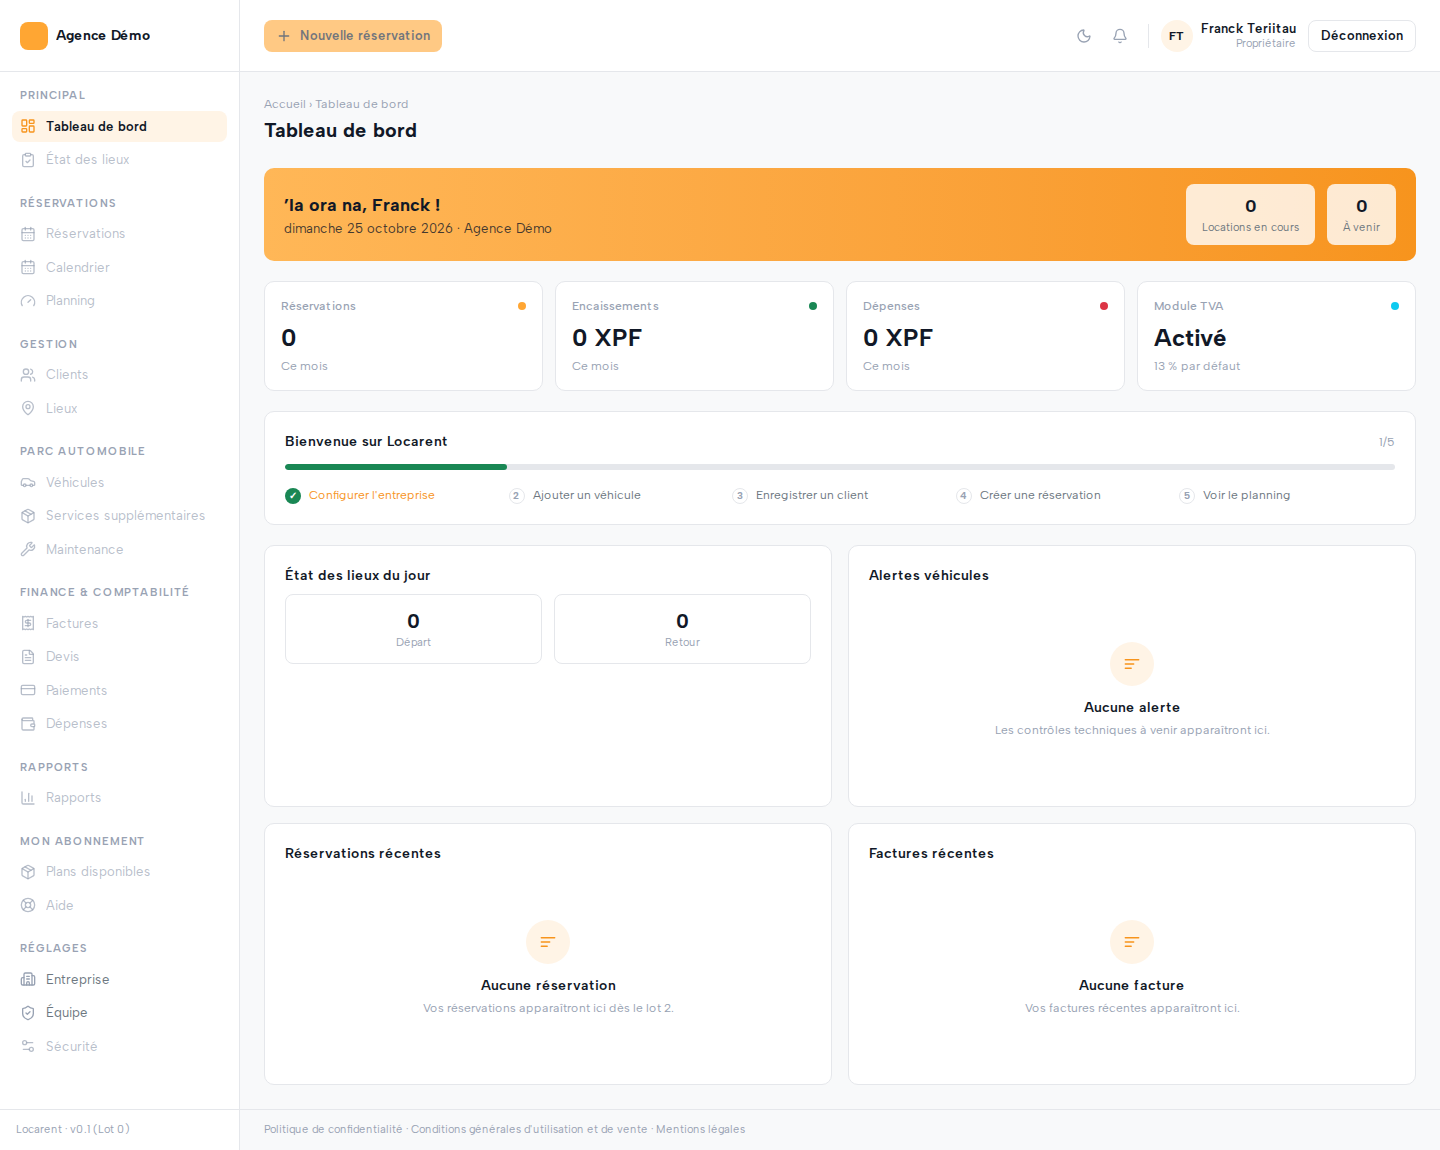
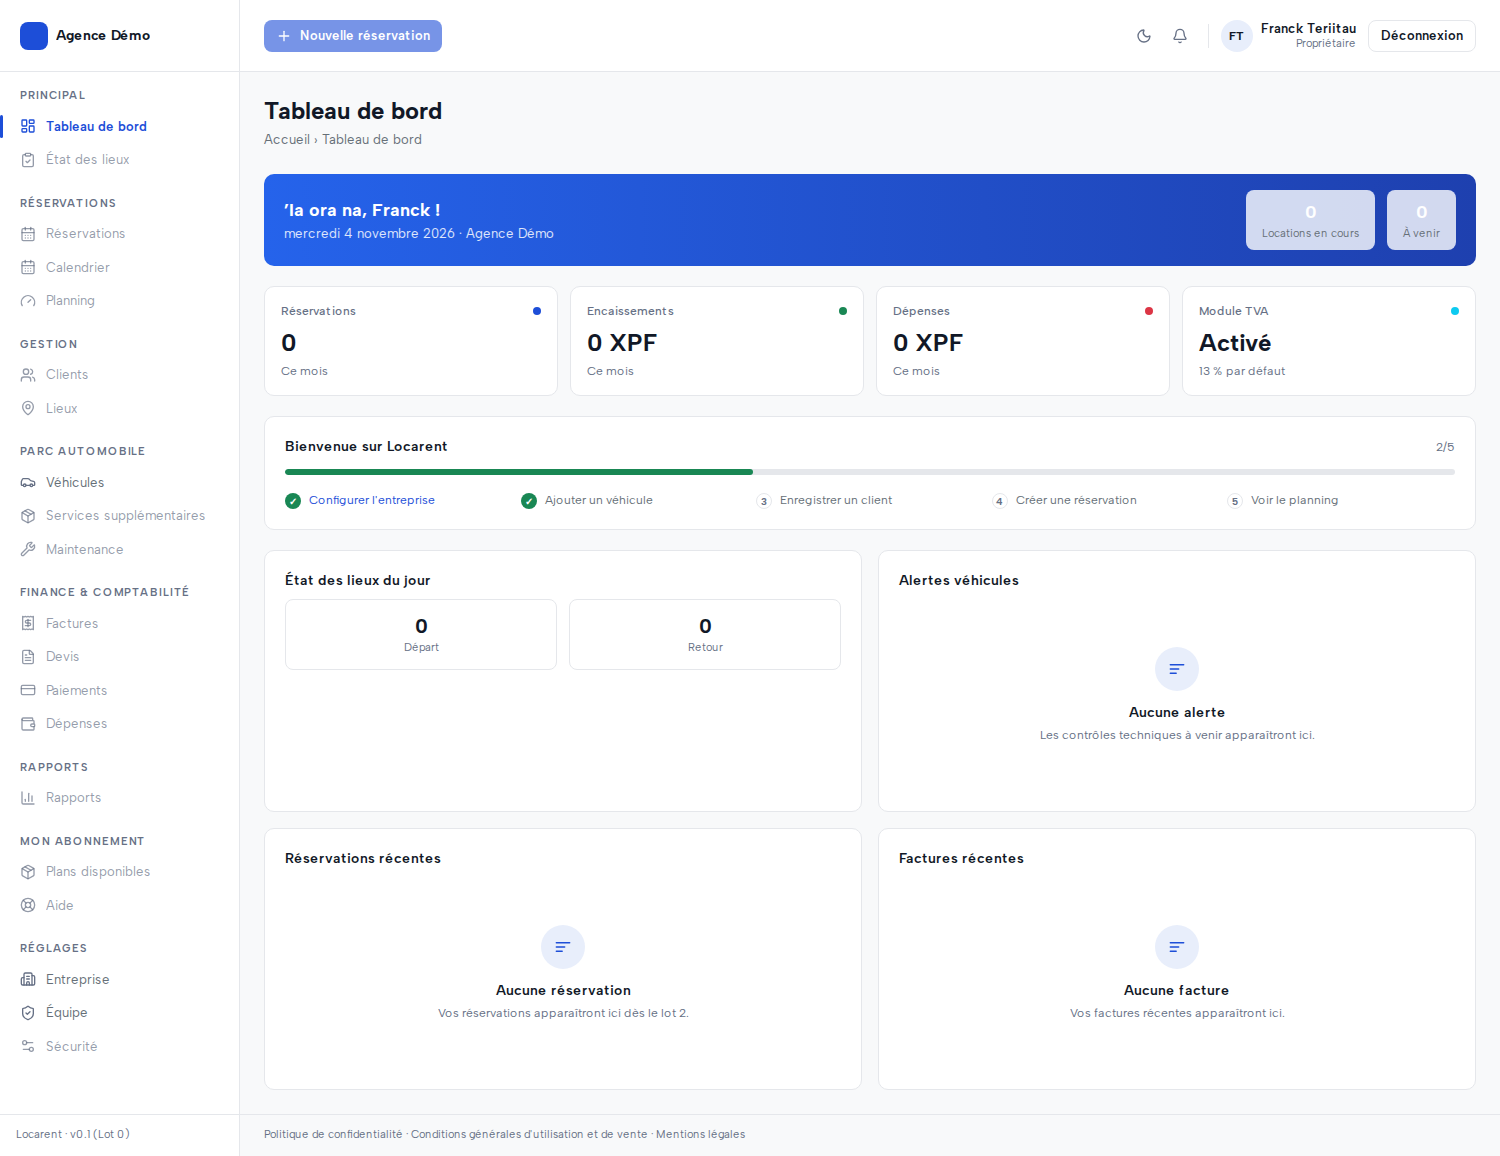
design : palette bleu océan à la place de l'orange
L'orange était hérité de FenuaCar ; le produit prend sa propre identité.

- primaire #1D4ED8 (6,7:1 avec du texte blanc), survol #1E40AF,
  fonds #E8EEFB ; liens en #1D4ED8 (6,15:1 sur fond crème) ;
- boutons et bandeau de bienvenue passent en texte blanc : sur un bleu
  profond, l'encre foncée ne tenait que 3,5:1 ;
- turquoises écartés après mesure : 1,2 de contraste avec le vert « succès »,
  donc indistinguables ; le vert, l'ambre et le rouge restent réservés aux
  statuts ;
- fond des écrans d'authentification refroidi (#F1F5FD) pour rester en
  harmonie.

Audit axe (WCAG AA) repassé sur les écrans publics et d'administration :
aucune violation sérieuse. Captures d'écran régénérées.

diff --git a/src/app/admin/index/page.tsx b/src/app/admin/index/page.tsx
@@ -44,22 +44,22 @@ export default async function DashboardPage() {
       />
 
       {/* Bandeau de bienvenue — orange en fond, texte foncé (contraste). */}
-      <section className="mb-5 flex flex-wrap items-center justify-between gap-4 rounded-card bg-gradient-to-r from-[#FFB757] to-brand-dark px-5 py-4">
+      <section className="mb-5 flex flex-wrap items-center justify-between gap-4 rounded-card bg-gradient-to-r from-[#2563EB] to-brand-dark px-5 py-4">
         <div>
-          <p className="text-lg font-bold text-ink">
+          <p className="text-lg font-bold text-white">
             ’Ia ora na, {firstName} !
           </p>
-          <p className="text-[13px] text-ink/80">
+          <p className="text-[13px] text-white/85">
             {formatLongDate(new Date())} · {session.tenant.name}
           </p>
         </div>
         <div className="flex gap-3 text-center">
           <div className="rounded-btn bg-surface/80 px-4 py-2">
-            <p className="text-lg font-bold text-ink">0</p>
+            <p className="text-lg font-bold text-white">0</p>
             <p className="text-[11px] text-body">Locations en cours</p>
           </div>
           <div className="rounded-btn bg-surface/80 px-4 py-2">
-            <p className="text-lg font-bold text-ink">0</p>
+            <p className="text-lg font-bold text-white">0</p>
             <p className="text-[11px] text-body">À venir</p>
           </div>
         </div>

diff --git a/src/app/globals.css b/src/app/globals.css
@@ -5,12 +5,12 @@
  * Tokens exposés comme utilitaires Tailwind 4 : bg-brand, text-ink, border-line…
  */
 @theme {
-  /* Marque */
-  --color-brand: #ffa633;
-  --color-brand-dark: #f7941d;
-  --color-brand-soft: #fff4e6;
-  /* Orange utilisable EN TEXTE : #f7941d ne donne que 2.3:1 sur blanc. */
-  --color-brand-text: #b45309;
+  /* Marque — bleu océan (Tahiti Keys).
+     Écarté : les turquoises, trop proches du vert « succès » (ratio 1,2). */
+  --color-brand: #1d4ed8;        /* surfaces, boutons — 6,7:1 avec texte blanc */
+  --color-brand-dark: #1e40af;   /* survol, dégradés */
+  --color-brand-soft: #e8eefb;   /* fonds de badge, surlignage */
+  --color-brand-text: #1d4ed8;   /* liens et accents — 6,7:1 sur blanc */
 
   /* Texte */
   --color-ink: #111827;
@@ -43,8 +43,8 @@
 }
 
 /* Contrastes (WCAG AA, 4.5:1 pour le texte courant) :
-   · #FFA633 et #F7941D ne servent JAMAIS de couleur de texte sur fond clair
-     (2.0 et 2.3:1) — en texte, utiliser --color-brand-text (#B45309, 5.0:1) ;
+   · --color-brand (#1D4ED8) tient 6,7:1 avec du texte blanc : il peut donc
+     servir de fond de bouton ET de couleur de texte ;
    · --color-body = 4.85:1 sur le fond gris de l'admin ;
    · --color-muted = 4.97:1.
    Ces valeurs sont vérifiées automatiquement par tests/e2e/accessibilite.spec.ts. */

diff --git a/src/components/admin/vehicle-form.tsx b/src/components/admin/vehicle-form.tsx
@@ -183,8 +183,8 @@ export function VehicleForm({
             ) : null}
 
             {/* Bandeau de section, comme sur la capture « Ajouter un véhicule ». */}
-            <div className="my-4 flex items-center gap-2 rounded-btn bg-[#EAF3F8] px-4 py-3">
-              <Info className="size-4 text-[#2C6C8F]" aria-hidden />
+            <div className="my-4 flex items-center gap-2 rounded-btn bg-[#EAF1FB] px-4 py-3">
+              <Info className="size-4 text-[#1E40AF]" aria-hidden />
               <span className="text-sm font-semibold text-ink">
                 {tab === "informations" ? "Informations de base" : "Tarification"}
               </span>
@@ -315,7 +315,7 @@ export function VehicleForm({
 
                 <label className="mt-4 flex items-center gap-2 text-[13px] text-ink">
                   <input type="checkbox" name="isUnlimitedKilometers" defaultChecked={values.isUnlimitedKilometers}
-                    className="size-4 accent-[#F7941D]" />
+                    className="size-4 accent-[#1D4ED8]" />
                   Kilométrage illimité
                 </label>
 

diff --git a/src/components/ui/button.tsx b/src/components/ui/button.tsx
@@ -5,7 +5,7 @@ import { cn } from "@/lib/cn";
 /**
  * Boutons du design system (spec/07-design-system.md).
  *
- * Le orange #FFA633 ne sert jamais de couleur de texte : soit fond avec texte
+ * Le orange #1D4ED8 ne sert jamais de couleur de texte : soit fond avec texte
  * foncé (primaire), soit bordure/accent avec texte foncé. Raison : contraste.
  */
 const buttonVariants = cva(
@@ -13,7 +13,7 @@ const buttonVariants = cva(
   {
     variants: {
       variant: {
-        primary: "bg-brand text-ink hover:bg-brand-dark",
+        primary: "bg-brand text-white hover:bg-brand-dark",
         secondary:
           "border border-line bg-surface text-ink hover:bg-app",
         ghost: "text-body hover:bg-app hover:text-ink",

diff --git a/src/components/admin/team-manager.tsx b/src/components/admin/team-manager.tsx
@@ -75,7 +75,7 @@ function PermissionPicker({
                   value={permission}
                   defaultChecked={selected.includes(permission)}
                   disabled={disabled}
-                  className="mt-0.5 size-3.5 accent-[#F7941D]"
+                  className="mt-0.5 size-3.5 accent-[#1D4ED8]"
                 />
                 {PERMISSION_LABELS[permission as Permission] ?? permission}
               </label>

diff --git a/src/app/(auth)/layout.tsx b/src/app/(auth)/layout.tsx
@@ -35,7 +35,7 @@ export default function AuthLayout({
         </footer>
       </div>
 
-      <aside className="relative hidden overflow-hidden bg-[#FFF8EF] lg:block">
+      <aside className="relative hidden overflow-hidden bg-[#F1F5FD] lg:block">
         <div
           aria-hidden
           className="absolute -right-24 -top-24 size-96 rounded-full bg-brand/20"

diff --git a/AGENTS.md b/AGENTS.md
@@ -137,12 +137,19 @@ Le produit d'origine a des contrastes insuffisants ; la refonte doit viser
 |---|---|---|---|
 | `--color-body` | `#666F77` | 4.85:1 | texte courant |
 | `--color-muted` | `#667085` | 4.72:1 | libellés, hints, métadonnées |
-| `--color-brand-text` | `#B45309` | 4.76:1 | liens et titres accentués |
+| `--color-brand` | `#1D4ED8` | 6.7:1 (texte blanc) | boutons, surfaces |
+| `--color-brand-text` | `#1D4ED8` | 6.15:1 sur fond crème | liens, accents |
+
+**Identité visuelle** : bleu océan profond. C'est un choix assumé pour se
+démarquer de l'orange de FenuaCar tout en restant lisible. Les turquoises ont
+été écartés : trop proches du vert « succès » (ratio de contraste 1,2 entre les
+deux — indistinguables).
 
 Règles :
-- `--color-brand` (#FFA633) et `--color-brand-dark` (#F7941D) servent de
-  **fond** ou de bordure, **jamais** de couleur de texte sur fond clair
-  (2.0:1 et 2.3:1). Pour du texte : `text-brand-text`.
+- `--color-brand` sert de **fond** avec du texte **blanc** (jamais encre foncée :
+  6.7:1 en blanc contre 3.5:1 en encre) ;
+- le vert, l'ambre et le rouge restent **réservés aux statuts** — ne pas les
+  réutiliser comme couleur décorative ;
 - `tests/e2e/accessibilite.spec.ts` échoue sur toute violation axe de gravité
   `serious` ou `critical`. Ne pas le désactiver pour faire passer une PR.
 
